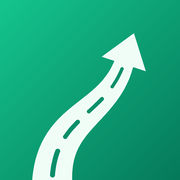
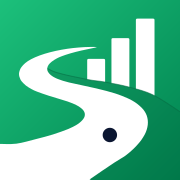
Aplica os ícones do novo kit de marca
- Ícone novo (pista em S com barras de crescimento) em SVG e PNG
- Versões para Android (maskable) e iPhone (apple-touch-icon)
- Adiciona favicon.ico (16, 32 e 48 px)
- Versão 2.4.1

diff --git a/index.html b/index.html
@@ -10,13 +10,14 @@
     <meta name="apple-mobile-web-app-capable" content="yes">
     <meta name="apple-mobile-web-app-status-bar-style" content="black-translucent">
     <link rel="manifest" href="./manifest.json">
+    <link rel="icon" href="./favicon.ico" sizes="48x48">
     <link rel="icon" type="image/svg+xml" href="./icon.svg">
     <link rel="apple-touch-icon" href="./apple-touch-icon.png">
     <link rel="icon" type="image/png" sizes="192x192" href="./icon-192.png">
     <link rel="preconnect" href="https://fonts.googleapis.com">
     <link rel="preconnect" href="https://fonts.gstatic.com" crossorigin>
     <link href="https://fonts.googleapis.com/css2?family=Outfit:wght@400;500;600;700;800&display=swap" rel="stylesheet">
-    <link rel="stylesheet" href="style.css?v=2.4.0">
+    <link rel="stylesheet" href="style.css?v=2.4.1">
     <script src="https://accounts.google.com/gsi/client" async defer></script>
 </head>
 <body>
@@ -325,7 +326,7 @@
                 </div>
             </section>
             <p class="made-by"><span class="covem-mark" aria-hidden="true"></span>Um app Covem.</p>
-            <p class="version">Na Pista · v2.4.0</p>
+            <p class="version">Na Pista · v2.4.1</p>
         </section>
     </main>
 
@@ -445,7 +446,7 @@
         <button type="button" class="toast-action" id="toast-action" hidden></button>
     </div>
 
-    <script src="app.js?v=2.4.0" type="module"></script>
+    <script src="app.js?v=2.4.1" type="module"></script>
     <script>
         if ('serviceWorker' in navigator) {
             window.addEventListener('load', () => {

diff --git a/app.js b/app.js
@@ -1,7 +1,7 @@
-import { initAuth, isAuthReady, login, getToken, logout, hasValidToken, invalidateToken, setAccountHint, getAccountHint } from './auth.js?v=2.4.0';
-import { findDataFile, readData, saveData, deleteData, getUserEmail } from './drive.js?v=2.4.0';
-import * as L from './logic.js?v=2.4.0';
-import * as P from './plans.js?v=2.4.0';
+import { initAuth, isAuthReady, login, getToken, logout, hasValidToken, invalidateToken, setAccountHint, getAccountHint } from './auth.js?v=2.4.1';
+import { findDataFile, readData, saveData, deleteData, getUserEmail } from './drive.js?v=2.4.1';
+import * as L from './logic.js?v=2.4.1';
+import * as P from './plans.js?v=2.4.1';
 
 // ═══════════════════════ Constantes ═══════════════════════
 const PRESET_PLATFORMS = ['Uber', '99', 'InDrive', 'Particular', 'iFood', 'Shopee', 'Mercado Livre', 'Lalamove'];

diff --git a/sw.js b/sw.js
@@ -1,6 +1,6 @@
 // Network-first para os arquivos do app: sempre pega a versão mais nova
 // quando há internet e usa o cache quando está offline.
-const CACHE_NAME = 'napista-v10';
+const CACHE_NAME = 'napista-v11';
 const ASSETS = [
     './',
     './index.html',
@@ -16,7 +16,8 @@ const ASSETS = [
     './icon-512.png',
     './icon-maskable-512.png',
     './apple-touch-icon.png',
-    './covem.svg'
+    './covem.svg',
+    './favicon.ico'
 ];
 
 self.addEventListener('install', (event) => {

diff --git a/plans.js b/plans.js
@@ -1,5 +1,5 @@
 // Planos e pagamentos (Mercado Pago via API própria em Cloudflare Workers).
-import { getToken, hasValidToken } from './auth.js?v=2.4.0';
+import { getToken, hasValidToken } from './auth.js?v=2.4.1';
 
 // Endereço do Worker publicado (ex.: 'https://napista-api.SEU-USUARIO.workers.dev').
 // Vazio = cobrança desligada: tudo liberado e sem anúncios (útil antes de publicar a API).

diff --git a/drive.js b/drive.js
@@ -1,5 +1,5 @@
 // Persistência no Google Drive (pasta privada do app: appDataFolder).
-import { getToken, invalidateToken } from './auth.js?v=2.4.0';
+import { getToken, invalidateToken } from './auth.js?v=2.4.1';
 
 const FILENAME = 'napista_data.json';
 const API = 'https://www.googleapis.com/drive/v3/files';
